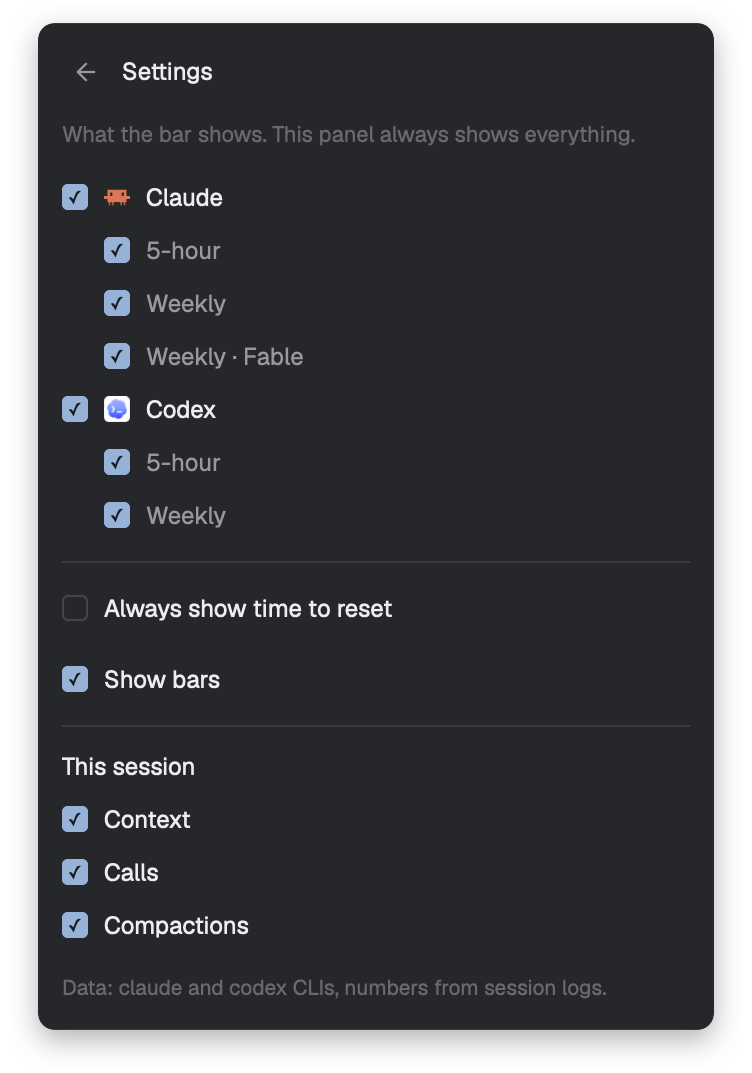
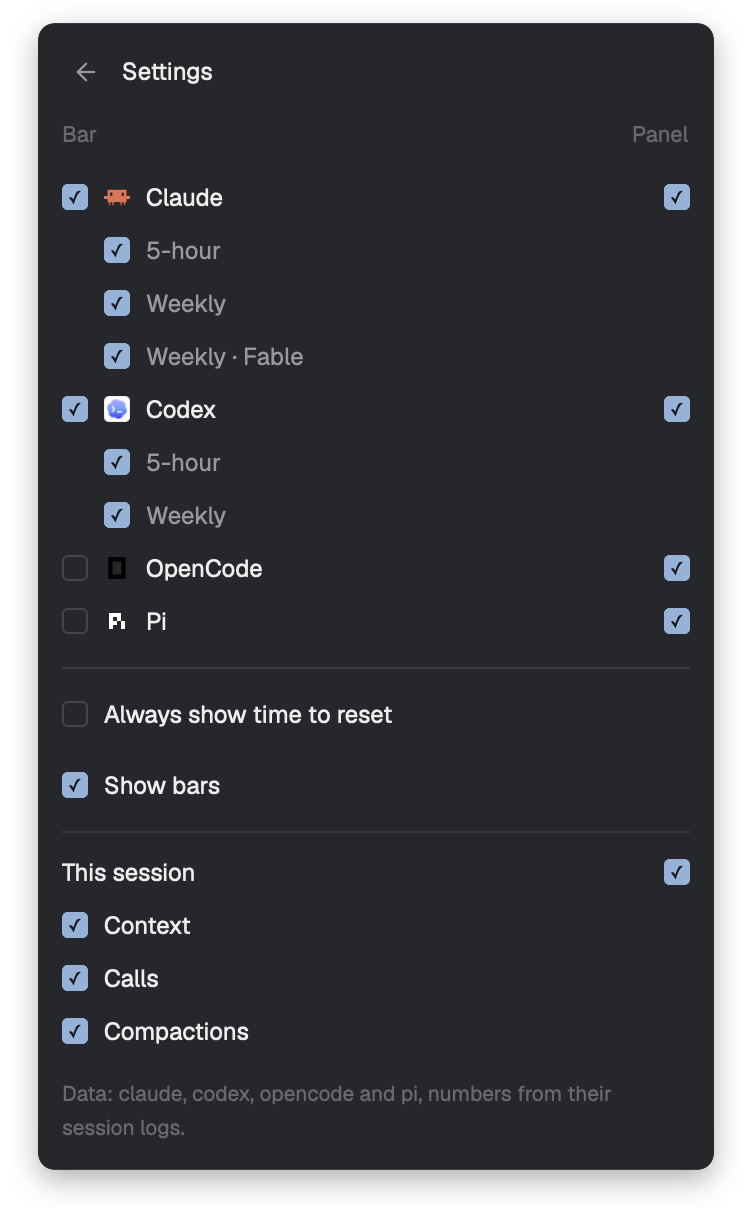
docs: images for OpenCode and Pi, folding and the new settings
Claude-Session: https://claude.ai/code/session_01RxGX2fReWoYgVKEAgf9iZk

diff --git a/README.md b/README.md
@@ -1,5 +1,5 @@
 <p align="center">
-  <img src="assets/hero.png" width="100%" alt="Always on the bar, everything on hover: the status bar with session numbers and Claude Code and Codex limits, and above it the hover panel with every limit in full">
+  <img src="assets/hero.png" width="100%" alt="Always on the bar, everything on hover: the status bar with session numbers and Claude Code and Codex limits, and above it the hover panel with the session, Claude's limits in full, Codex folded to one line, and OpenCode and Pi with their tokens today and over 7 days">
 </p>
 
 <h1 align="center">Usage limits for Herdr</h1>
@@ -50,7 +50,7 @@ From amber on, you also see the time left until the limit resets.
 ## Hover for everything
 
 <p align="center">
-  <img src="assets/card.png" width="440" alt="The hover panel: the current session's context, calls and compactions, then each provider with its plan and last update and one line per limit with a bar, percent and time to reset, with refresh and settings buttons">
+  <img src="assets/card.png" width="440" alt="The hover panel: an OpenCode session with its model, context, calls and compactions, then Claude and Codex with their plan, last update and one line per limit with a bar, percent and time to reset, then OpenCode and Pi with their tokens today and over 7 days, with refresh and settings buttons">
 </p>
 
 Rest the pointer on the limits. The panel shows every limit and when it resets. Rest it on a
@@ -60,6 +60,10 @@ Click a provider's name to fold it to one line: its tightest limit, with the bar
 and time to reset. Click again to open it. Everything starts open, and a fold is
 remembered. An arrow beside the name shows while the pointer is on it, and always on a
 folded line or when the panel holds three providers or more.
+
+<p align="center">
+  <img src="assets/fold.png" width="440" alt="The same panel with Claude and Codex folded: each on one line with its tightest limit, 5-hour at 92% and 71%, then OpenCode and Pi">
+</p>
 
 OpenCode and Pi get one line each: `Tokens today / 7d`, with both numbers. They don't
 fold. One you haven't used in 7 days isn't shown.
@@ -76,7 +80,7 @@ For OpenCode and Pi the second line also names the agent and the model: `Pi · d
 ## Choose what the bar shows
 
 <p align="center">
-  <img src="assets/settings.png" width="440" alt="The settings side of the panel: a back arrow, a checkbox per provider and per limit, Always show time to reset, Show bars, and checkboxes for the session's context, calls and compactions">
+  <img src="assets/settings.png" width="440" alt="The settings side of the panel: a back arrow, Bar and Panel column headings, for each provider a Bar checkbox on the left and a Panel checkbox on the right, a Bar checkbox per limit, OpenCode and Pi off the bar and in the panel, Always show time to reset, Show bars, and This session with its Panel checkbox and Bar checkboxes for context, calls and compactions">
 </p>
 
 Click ⚙ in the panel. Each provider has two boxes: the left one, under **Bar**, is about
